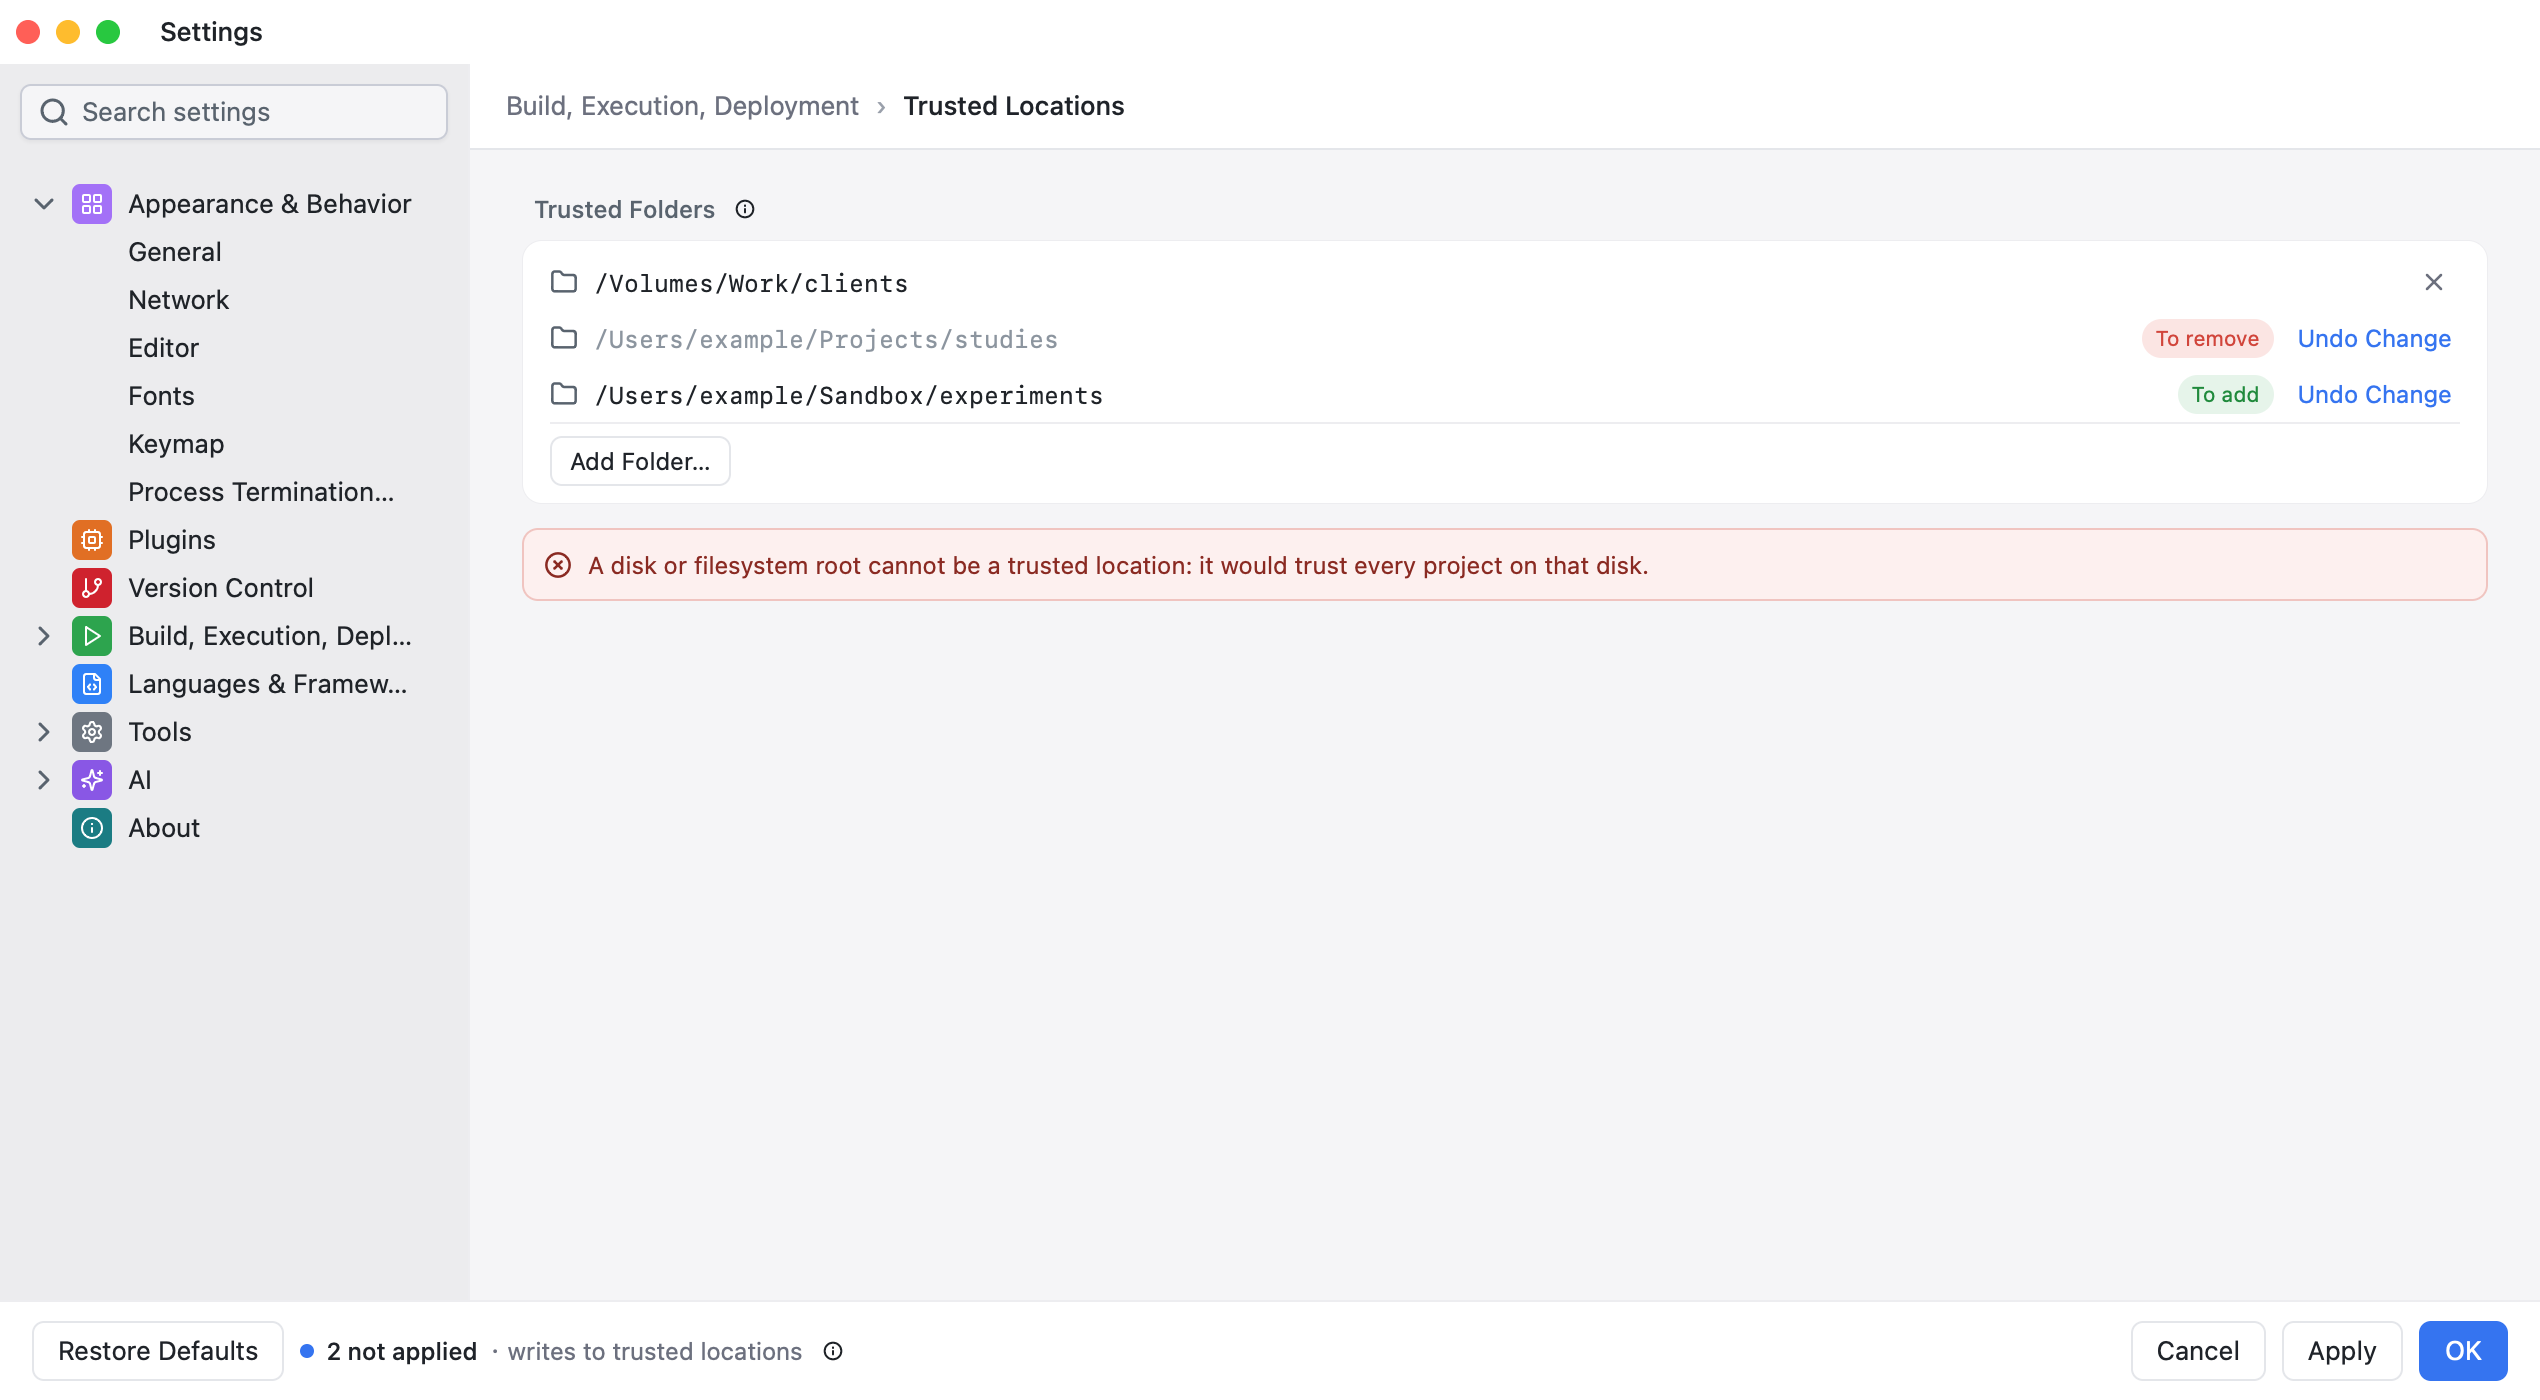
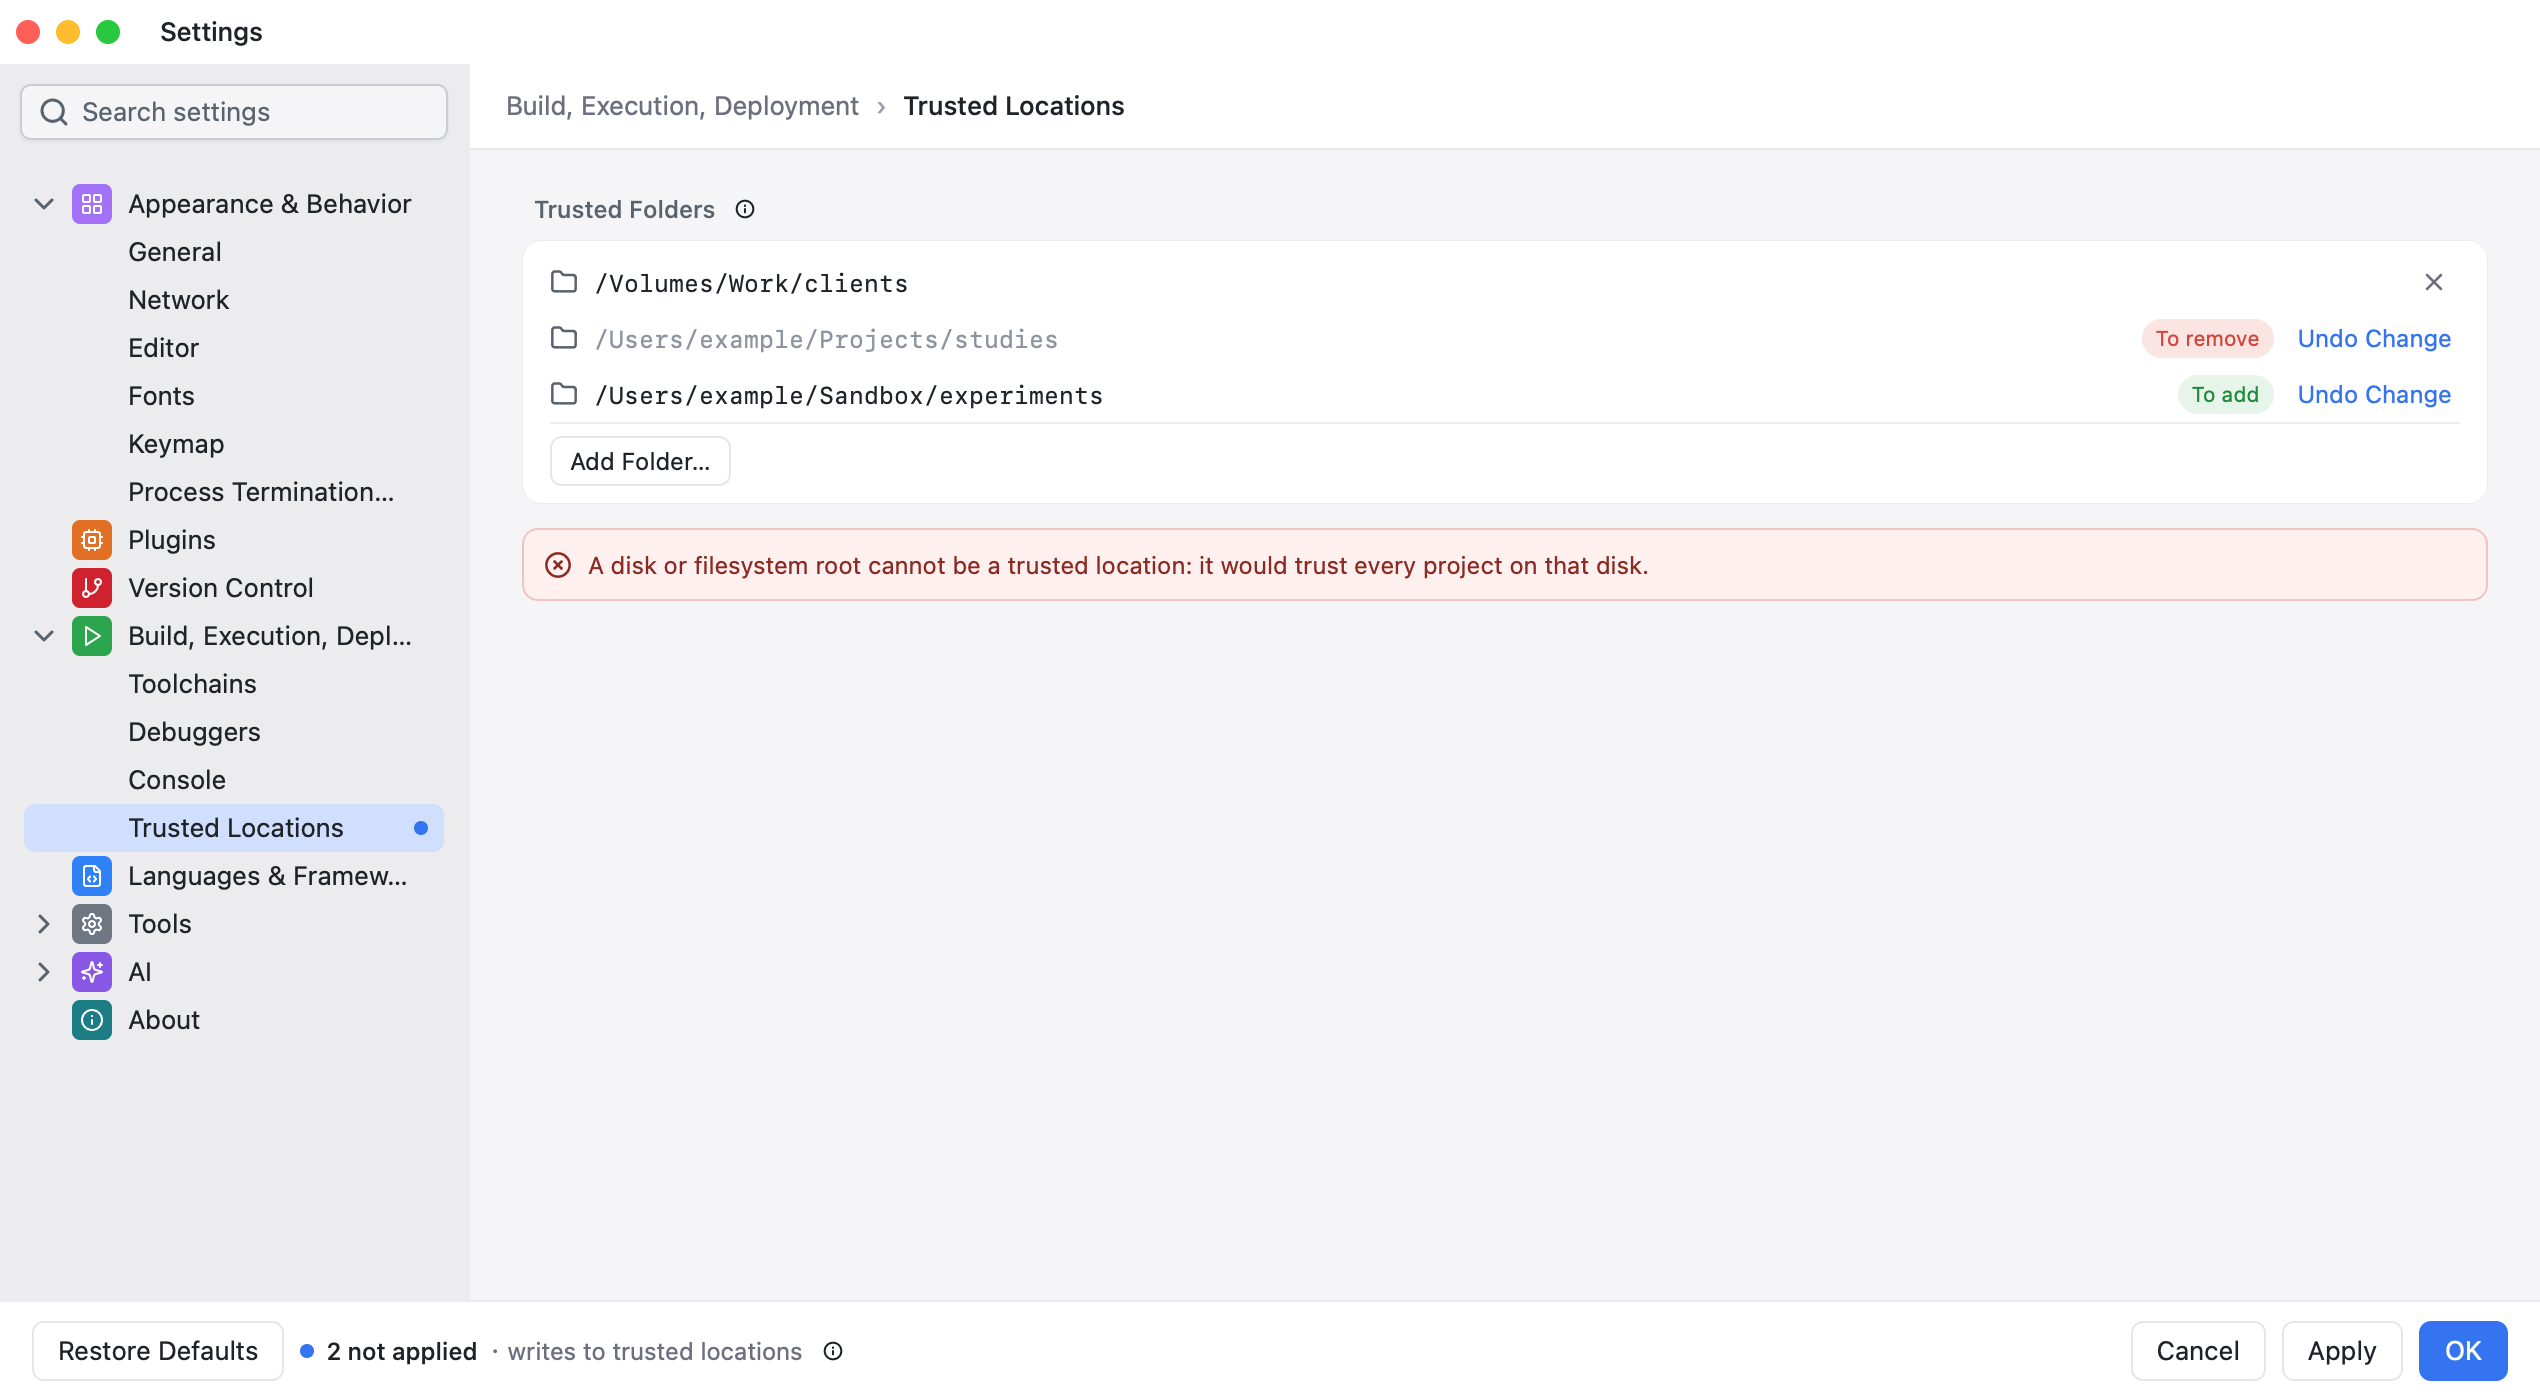
test(settings): 等可信位置列表画出后再截图 (#2207)
pump 只重画已失效的区域，直接改页面后截到的仍是目录页，列表截图与目录截图字节相同。改为通过 openBuildChild 切页，并等到列表的第一个文件夹出现在画面上再截图；重新生成列表和草稿截图。

Changed region(s): [[0.0, 0.4607, 0.1866, 0.7371]]

diff --git a/desktop/internal/settingswindow/trusted_locations_visual_test.go b/desktop/internal/settingswindow/trusted_locations_visual_test.go
@@ -54,8 +54,10 @@ func TestVisualTrustedLocations(t *testing.T) {
 					}
 				}
 				shot("directory")
-				w.sess.page = pageTrustedLocations
-				d.pump()
+				// Pump paints only what was invalidated, so wait for the list's first folder to be
+				// on the screen; otherwise the shot repeats the directory page.
+				w.openBuildChild(pageTrustedLocations)
+				d.until("the saved list to be painted", func() bool { return d.text(work) })
 				shot("list")
 				d.changeLocation(l, sandbox, true)
 				d.changeLocation(l, studies, false)
